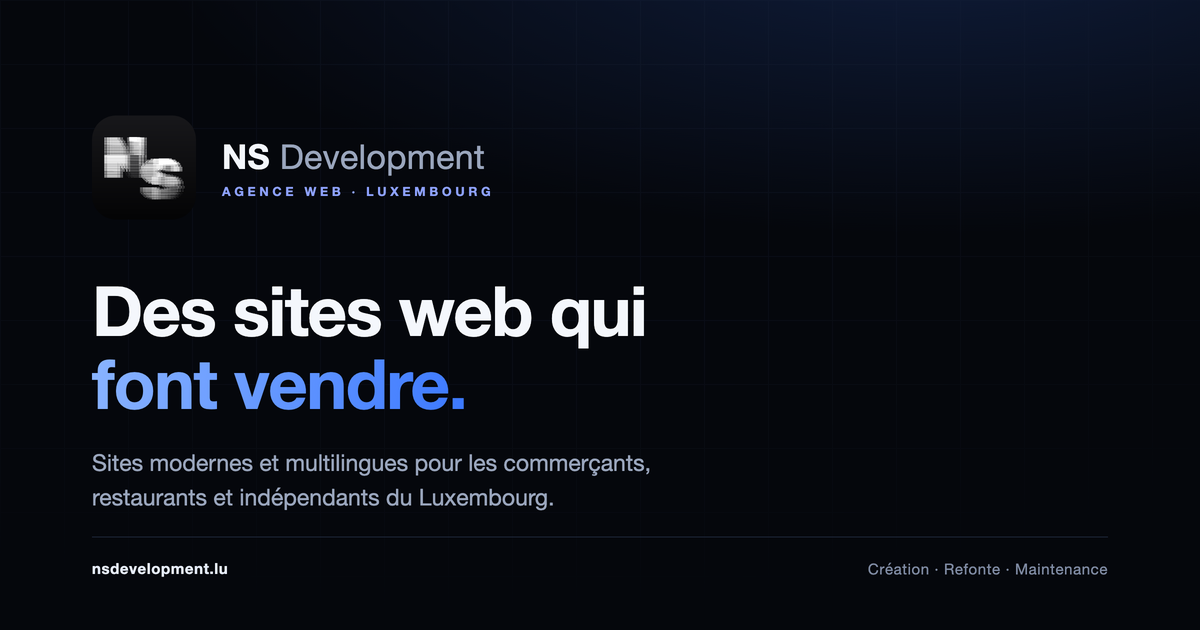
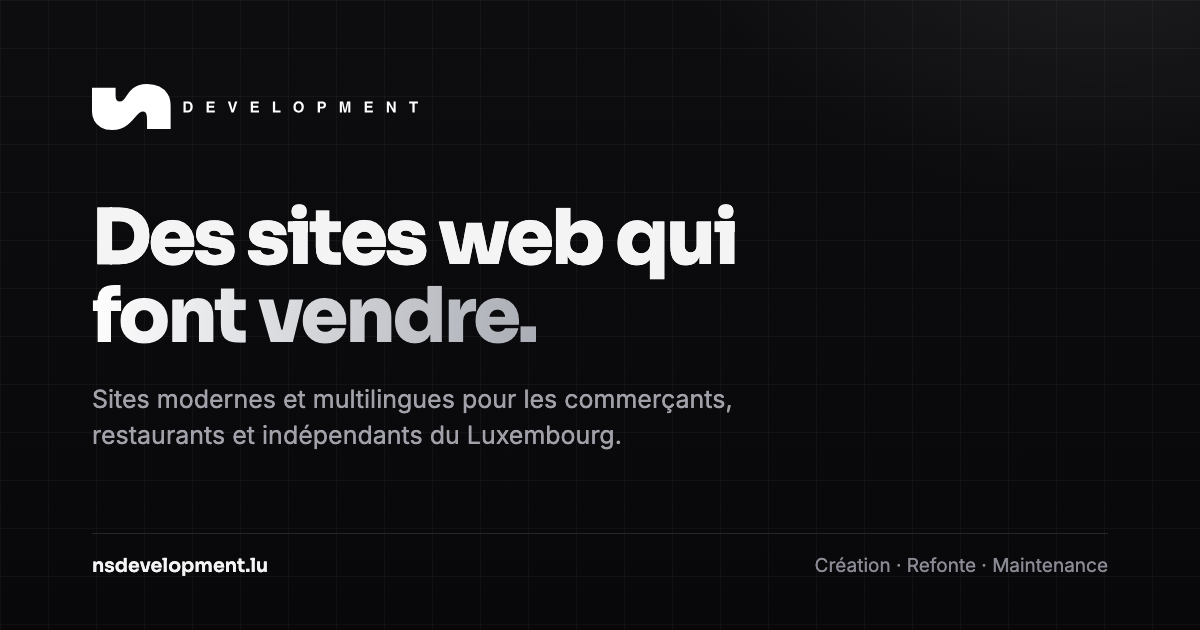
Vitrine et démos — mise à jour du 10/11/2026 à 05:49

diff --git a/index.html b/index.html
@@ -96,7 +96,8 @@
   nav.ns-solid{background:var(--nav-bg);backdrop-filter:blur(18px);box-shadow:0 1px 0 var(--line),0 8px 30px rgba(0,0,0,.4)}
   .nav-in{width:100%;max-width:1180px;margin:0 auto;padding:0 24px;display:flex;align-items:center;justify-content:space-between}
   .brand{display:flex;align-items:center;gap:12px}
-  .brand img{height:40px;width:auto}
+  .brand .logo-h{height:30px;width:auto;display:block;color:var(--ink)}
+  .fx-preload .pl-mark .logo-v{height:clamp(92px,16vw,150px);width:auto;display:block;color:var(--ink)}
   .brand .bt{font-family:var(--disp);font-weight:700;font-size:16px;letter-spacing:.01em}
   .brand .bt em{font-style:normal;color:var(--soft);font-weight:500}
   .nav-links{display:flex;align-items:center;gap:20px}
@@ -424,7 +425,7 @@
 
   footer{border-top:1px solid var(--line);padding:56px 0 34px;background:var(--bg)}
   .foot-top{display:grid;grid-template-columns:1.6fr 1fr 1fr 1fr;gap:44px;padding-bottom:38px;border-bottom:1px solid var(--line)}
-  .foot-brand img{height:52px;margin-bottom:16px}
+  .foot-brand .foot-logo{display:block;color:var(--ink);margin-bottom:18px}.foot-brand .logo-v{height:74px;width:auto;display:block}
   .foot-brand p{font-size:13.5px;color:var(--muted);line-height:1.7;max-width:36ch}
   .foot-col h4{font-family:var(--mono);font-size:11px;letter-spacing:.12em;text-transform:uppercase;color:var(--soft);margin-bottom:16px}
   .foot-col a{display:block;font-size:13.5px;color:var(--muted);padding:5px 0;transition:color var(--tr)}
@@ -480,7 +481,7 @@
 <!-- Écran d'ouverture -->
 <div class="fx-preload" id="fxPreload">
   <div class="pl-in">
-    <div class="pl-mark"><span>NS Development</span></div>
+    <div class="pl-mark"><span role="img" aria-label="NS Development"><svg class="logo-v" xmlns="http://www.w3.org/2000/svg" viewBox="0 0 363.63 239.47" fill="currentColor" aria-hidden="true" focusable="false"><path d="M233.89 125.75Q225.27 125.75 217.36 131.86Q209.46 137.96 201.02 147.48Q192.57 157.01 182.69 167.96Q172.81 178.92 160.06 188.44Q147.3 197.96 130.42 204.07Q113.53 210.18 91.62 210.18Q61.44 210.18 41.14 198.32Q20.84 186.47 10.42 167.6Q-0 148.74 -0 127.9V17.6H107.78V46.35Q107.78 53.53 108.5 61.44Q109.22 69.34 113.17 74.73Q117.13 80.12 127.18 80.12Q135.81 80.12 142.1 74.37Q148.38 68.62 154.31 59.46Q160.24 50.3 167.78 40.06Q175.33 29.82 186.11 20.66Q196.89 11.5 213.05 5.75Q229.22 -0 252.93 -0Q283.83 -0 307.9 11.86Q331.97 23.71 345.63 45.63Q359.28 67.54 359.28 97.72V205.15H251.5V163.83Q251.5 144.79 247.72 135.27Q243.95 125.75 233.89 125.75Z"/><path d="M9.93 236.17H13.3Q15.08 236.17 16.07 234.69Q17.06 233.2 17.06 230.61Q17.06 227.94 16.15 226.64Q15.24 225.33 13.37 225.33H9.93ZM6.54 222.48H13.85Q17.21 222.48 18.89 224.66Q20.58 226.84 20.58 230.36Q20.58 234.26 18.79 236.65Q16.99 239.03 13.72 239.03H6.54ZM53.9 225.41H45.12V228.89H53.19V231.82H45.12V236.11H54.29V239.03H41.73V222.48H53.9ZM84.97 222.48H88.56L82.93 239.03H79.64L74.06 222.48H77.77L81.32 235.03H81.36ZM121.14 225.41H112.36V228.89H120.43V231.82H112.36V236.11H121.54V239.03H108.97V222.48H121.14ZM146.14 236.04H154.37V239.03H142.68V222.48H146.14ZM177.4 230.76Q177.4 233.64 178.68 235.09Q179.96 236.55 181.93 236.55Q183.9 236.55 185.15 235.05Q186.39 233.55 186.39 230.76Q186.39 227.97 185.16 226.47Q183.93 224.97 181.89 224.97Q179.85 224.97 178.62 226.46Q177.4 227.96 177.4 230.76ZM173.94 230.76Q173.94 226.5 176.16 224.27Q178.38 222.05 181.87 222.05Q185.36 222.05 187.6 224.25Q189.85 226.45 189.85 230.76Q189.85 234.97 187.64 237.22Q185.43 239.47 181.9 239.47Q178.53 239.47 176.24 237.34Q173.94 235.21 173.94 230.76ZM217.6 230.21Q218.92 230.21 219.55 229.59Q220.18 228.98 220.18 227.7Q220.18 226.4 219.47 225.87Q218.75 225.33 217.34 225.33H214.4V230.21ZM214.4 239.03H210.94V222.48H218.49Q220.86 222.48 222.25 223.9Q223.64 225.32 223.64 227.79Q223.64 229.91 222.28 231.49Q220.91 233.07 218.36 233.07H214.4ZM260.67 239.03H257.44V227.85L257.48 225.2H257.39L254.3 239.03H250.91L247.89 225.2H247.81L247.85 227.85V239.03H244.62V222.48H249.67L252.65 235.53H252.72L255.66 222.48H260.67ZM294.66 225.41H285.88V228.89H293.95V231.82H285.88V236.11H295.06V239.03H282.49V222.48H294.66ZM326.47 222.48H329.69V239.03H326.23L319.48 227.22H319.43V239.03H316.2V222.48H319.85L326.43 234.01H326.47ZM358.62 239.03H355.16V225.41H350.16V222.48H363.63V225.41H358.62Z"/></svg></span></div>
     <div class="pl-bar"><i></i></div>
     <div class="pl-num">000</div>
   </div>
@@ -494,7 +495,7 @@
 
 <nav data-nav-solid>
   <div class="nav-in">
-    <a href="#top" class="brand"><img src="assets/logo-ns-tuile-header.png" alt="NS Development"><span class="bt">NS <em>Development</em></span></a>
+    <a href="#top" class="brand" aria-label="NS Development, accueil"><svg class="logo-h" xmlns="http://www.w3.org/2000/svg" viewBox="0 0 1489.38 210.18" fill="currentColor" aria-hidden="true" focusable="false"><path d="M233.89 125.75Q225.27 125.75 217.36 131.86Q209.46 137.96 201.02 147.48Q192.57 157.01 182.69 167.96Q172.81 178.92 160.06 188.44Q147.3 197.96 130.42 204.07Q113.53 210.18 91.62 210.18Q61.44 210.18 41.14 198.32Q20.84 186.47 10.42 167.6Q-0 148.74 -0 127.9V17.6H107.78V46.35Q107.78 53.53 108.5 61.44Q109.22 69.34 113.17 74.73Q117.13 80.12 127.18 80.12Q135.81 80.12 142.1 74.37Q148.38 68.62 154.31 59.46Q160.24 50.3 167.78 40.06Q175.33 29.82 186.11 20.66Q196.89 11.5 213.05 5.75Q229.22 -0 252.93 -0Q283.83 -0 307.9 11.86Q331.97 23.71 345.63 45.63Q359.28 67.54 359.28 97.72V205.15H251.5V163.83Q251.5 144.79 247.72 135.27Q243.95 125.75 233.89 125.75Z"/><path transform="translate(418.13 78.95) scale(3.0)" d="M3.39 14.13H6.75Q8.53 14.13 9.52 12.64Q10.51 11.16 10.51 8.57Q10.51 5.9 9.6 4.59Q8.69 3.29 6.82 3.29H3.39ZM-0 0.44H7.31Q10.66 0.44 12.35 2.62Q14.04 4.8 14.04 8.32Q14.04 12.21 12.24 14.6Q10.45 16.99 7.17 16.99H-0ZM47.36 3.37H38.57V6.84H46.65V9.77H38.57V14.06H47.75V16.99H35.19V0.44H47.36ZM78.42 0.44H82.01L76.38 16.99H73.1L67.51 0.44H71.23L74.77 12.98H74.82ZM114.6 3.37H105.82V6.84H113.89V9.77H105.82V14.06H114.99V16.99H102.43V0.44H114.6ZM139.6 13.99H147.82V16.99H136.14V0.44H139.6ZM170.85 8.71Q170.85 11.6 172.14 13.05Q173.42 14.5 175.39 14.5Q177.36 14.5 178.6 13Q179.85 11.51 179.85 8.71Q179.85 5.92 178.61 4.42Q177.38 2.93 175.34 2.93Q173.31 2.93 172.08 4.42Q170.85 5.91 170.85 8.71ZM167.4 8.71Q167.4 4.46 169.61 2.23Q171.83 0 175.32 0Q178.81 0 181.06 2.2Q183.3 4.4 183.3 8.71Q183.3 12.92 181.1 15.18Q178.89 17.43 175.36 17.43Q171.99 17.43 169.69 15.29Q167.4 13.16 167.4 8.71ZM211.06 8.16Q212.38 8.16 213.01 7.55Q213.64 6.93 213.64 5.65Q213.64 4.36 212.92 3.82Q212.21 3.29 210.8 3.29H207.85V8.16ZM207.85 16.99H204.39V0.44H211.95Q214.31 0.44 215.7 1.86Q217.09 3.28 217.09 5.74Q217.09 7.87 215.73 9.45Q214.37 11.02 211.81 11.02H207.85ZM254.13 16.99H250.89V5.81L250.94 3.15H250.85L247.75 16.99H244.37L241.35 3.15H241.27L241.3 5.81V16.99H238.07V0.44H243.13L246.11 13.49H246.18L249.12 0.44H254.13ZM288.12 3.37H279.34V6.84H287.41V9.77H279.34V14.06H288.51V16.99H275.95V0.44H288.12ZM319.93 0.44H323.15V16.99H319.69L312.94 5.18H312.89V16.99H309.66V0.44H313.31L319.88 11.97H319.93ZM352.07 16.99H348.62V3.37H343.62V0.44H357.08V3.37H352.07Z"/></svg></a>
     <div class="nav-links" id="navlinks">
       <a href="#services">Services</a>
       <a href="#demos">Exemples</a>
@@ -1096,7 +1097,7 @@
   <div class="wrap">
     <div class="foot-top" data-stagger="100">
       <div class="foot-brand">
-        <img src="assets/logo-ns-tuile-header.png" alt="NS Development">
+        <span class="foot-logo" role="img" aria-label="NS Development"><svg class="logo-v" xmlns="http://www.w3.org/2000/svg" viewBox="0 0 363.63 239.47" fill="currentColor" aria-hidden="true" focusable="false"><path d="M233.89 125.75Q225.27 125.75 217.36 131.86Q209.46 137.96 201.02 147.48Q192.57 157.01 182.69 167.96Q172.81 178.92 160.06 188.44Q147.3 197.96 130.42 204.07Q113.53 210.18 91.62 210.18Q61.44 210.18 41.14 198.32Q20.84 186.47 10.42 167.6Q-0 148.74 -0 127.9V17.6H107.78V46.35Q107.78 53.53 108.5 61.44Q109.22 69.34 113.17 74.73Q117.13 80.12 127.18 80.12Q135.81 80.12 142.1 74.37Q148.38 68.62 154.31 59.46Q160.24 50.3 167.78 40.06Q175.33 29.82 186.11 20.66Q196.89 11.5 213.05 5.75Q229.22 -0 252.93 -0Q283.83 -0 307.9 11.86Q331.97 23.71 345.63 45.63Q359.28 67.54 359.28 97.72V205.15H251.5V163.83Q251.5 144.79 247.72 135.27Q243.95 125.75 233.89 125.75Z"/><path d="M9.93 236.17H13.3Q15.08 236.17 16.07 234.69Q17.06 233.2 17.06 230.61Q17.06 227.94 16.15 226.64Q15.24 225.33 13.37 225.33H9.93ZM6.54 222.48H13.85Q17.21 222.48 18.89 224.66Q20.58 226.84 20.58 230.36Q20.58 234.26 18.79 236.65Q16.99 239.03 13.72 239.03H6.54ZM53.9 225.41H45.12V228.89H53.19V231.82H45.12V236.11H54.29V239.03H41.73V222.48H53.9ZM84.97 222.48H88.56L82.93 239.03H79.64L74.06 222.48H77.77L81.32 235.03H81.36ZM121.14 225.41H112.36V228.89H120.43V231.82H112.36V236.11H121.54V239.03H108.97V222.48H121.14ZM146.14 236.04H154.37V239.03H142.68V222.48H146.14ZM177.4 230.76Q177.4 233.64 178.68 235.09Q179.96 236.55 181.93 236.55Q183.9 236.55 185.15 235.05Q186.39 233.55 186.39 230.76Q186.39 227.97 185.16 226.47Q183.93 224.97 181.89 224.97Q179.85 224.97 178.62 226.46Q177.4 227.96 177.4 230.76ZM173.94 230.76Q173.94 226.5 176.16 224.27Q178.38 222.05 181.87 222.05Q185.36 222.05 187.6 224.25Q189.85 226.45 189.85 230.76Q189.85 234.97 187.64 237.22Q185.43 239.47 181.9 239.47Q178.53 239.47 176.24 237.34Q173.94 235.21 173.94 230.76ZM217.6 230.21Q218.92 230.21 219.55 229.59Q220.18 228.98 220.18 227.7Q220.18 226.4 219.47 225.87Q218.75 225.33 217.34 225.33H214.4V230.21ZM214.4 239.03H210.94V222.48H218.49Q220.86 222.48 222.25 223.9Q223.64 225.32 223.64 227.79Q223.64 229.91 222.28 231.49Q220.91 233.07 218.36 233.07H214.4ZM260.67 239.03H257.44V227.85L257.48 225.2H257.39L254.3 239.03H250.91L247.89 225.2H247.81L247.85 227.85V239.03H244.62V222.48H249.67L252.65 235.53H252.72L255.66 222.48H260.67ZM294.66 225.41H285.88V228.89H293.95V231.82H285.88V236.11H295.06V239.03H282.49V222.48H294.66ZM326.47 222.48H329.69V239.03H326.23L319.48 227.22H319.43V239.03H316.2V222.48H319.85L326.43 234.01H326.47ZM358.62 239.03H355.16V225.41H350.16V222.48H363.63V225.41H358.62Z"/></svg></span>
         <p>Création de sites web modernes pour les commerçants, restaurants et indépendants du Luxembourg.</p>
       </div>
       <div class="foot-col">

diff --git a/crm/index.html b/crm/index.html
@@ -240,6 +240,9 @@
   .bandeau-installer { display: block; background: #35d29a; color: #0f0f10; font-weight: 700; font-size: 14px; text-align: center;
     padding: 10px 16px; text-decoration: none; }
   .logo-connexion { width: 64px; height: 64px; border-radius: 16px; margin-bottom: 18px; }
+  /* Logo officiel vectoriel sans fond (pack du 10/11/2026), en vert CRM */
+  #ecran-connexion > svg.logo-nsd-connexion { display: block; width: 92px; height: auto; margin: 0 auto 22px; filter: drop-shadow(0 14px 30px rgba(53,210,154,.35)); }
+  .logo svg.logo-nsd { display: block; height: 20px; width: auto; }
   .connexion h1 { margin: 0 0 6px; }
   .connexion p { color: var(--doux); margin: 0 0 22px; }
   .code { letter-spacing: .4em; text-align: center; font-size: 24px !important; }
@@ -1072,7 +1075,7 @@
   Pour avoir le logo NS sur l’écran d’accueil, ouvre l’appli ici puis ajoute-la depuis Safari →</a>
 
 <div id="ecran-connexion" class="connexion cache">
-  <img class="logo-connexion" src="icones/nsd-vert-tuile-96.png" alt="NS Development" width="64" height="64">
+  <svg class="logo-nsd-connexion" viewBox="0 0 359.28 210.18" role="img" aria-label="NS Development"><defs><linearGradient id="logo-nsd-connexion-g" x1="0" y1="0" x2="1" y2="1"><stop offset="0" stop-color="var(--accent-l, #7ff0c4)"/><stop offset="1" stop-color="var(--accent, #35d29a)"/></linearGradient></defs><path fill="url(#logo-nsd-connexion-g)" d="M233.89 125.75Q225.27 125.75 217.36 131.86Q209.46 137.96 201.02 147.48Q192.57 157.01 182.69 167.96Q172.81 178.92 160.06 188.44Q147.3 197.96 130.42 204.07Q113.53 210.18 91.62 210.18Q61.44 210.18 41.14 198.32Q20.84 186.47 10.42 167.6Q-0 148.74 -0 127.9V17.6H107.78V46.35Q107.78 53.53 108.5 61.44Q109.22 69.34 113.17 74.73Q117.13 80.12 127.18 80.12Q135.81 80.12 142.1 74.37Q148.38 68.62 154.31 59.46Q160.24 50.3 167.78 40.06Q175.33 29.82 186.11 20.66Q196.89 11.5 213.05 5.75Q229.22 -0 252.93 -0Q283.83 -0 307.9 11.86Q331.97 23.71 345.63 45.63Q359.28 67.54 359.28 97.72V205.15H251.5V163.83Q251.5 144.79 247.72 135.27Q243.95 125.75 233.89 125.75Z"/></svg>
   <h1>CRM NSD</h1>
   <p>La prospection de NS Development, reliée au Google Sheets.</p>
   <label class="champ">Code d’accès
@@ -1084,7 +1087,7 @@
 <div id="app" class="cache">
   <header class="barre"><div class="barre-int">
     <div class="barre-haut">
-      <div class="logo"><img src="icones/nsd-vert-tuile-96.png" alt="NS Development"> CRM</div>
+      <div class="logo"><svg class="logo-nsd" viewBox="0 0 359.28 210.18" role="img" aria-label="NS Development"><defs><linearGradient id="logo-nsd-g" x1="0" y1="0" x2="1" y2="1"><stop offset="0" stop-color="var(--accent-l, #7ff0c4)"/><stop offset="1" stop-color="var(--accent, #35d29a)"/></linearGradient></defs><path fill="url(#logo-nsd-g)" d="M233.89 125.75Q225.27 125.75 217.36 131.86Q209.46 137.96 201.02 147.48Q192.57 157.01 182.69 167.96Q172.81 178.92 160.06 188.44Q147.3 197.96 130.42 204.07Q113.53 210.18 91.62 210.18Q61.44 210.18 41.14 198.32Q20.84 186.47 10.42 167.6Q-0 148.74 -0 127.9V17.6H107.78V46.35Q107.78 53.53 108.5 61.44Q109.22 69.34 113.17 74.73Q117.13 80.12 127.18 80.12Q135.81 80.12 142.1 74.37Q148.38 68.62 154.31 59.46Q160.24 50.3 167.78 40.06Q175.33 29.82 186.11 20.66Q196.89 11.5 213.05 5.75Q229.22 -0 252.93 -0Q283.83 -0 307.9 11.86Q331.97 23.71 345.63 45.63Q359.28 67.54 359.28 97.72V205.15H251.5V163.83Q251.5 144.79 247.72 135.27Q243.95 125.75 233.89 125.75Z"/></svg> CRM</div>
       <div class="barre-droite">
         <button class="theme" data-action="theme" aria-label="Basculer entre mode clair et mode sombre" title="Mode clair / sombre">
           <svg class="lune" viewBox="0 0 24 24" fill="none" stroke="currentColor" stroke-width="2" stroke-linecap="round" stroke-linejoin="round"><path d="M21 12.79A9 9 0 1 1 11.21 3 7 7 0 0 0 21 12.79z"/></svg>

diff --git a/cgv.html b/cgv.html
@@ -20,7 +20,7 @@
   a{color:var(--acc2);text-decoration:none}a:hover{color:var(--acc)}
   h1,h2{font-family:var(--disp);letter-spacing:-.02em}
   .top{position:sticky;top:0;z-index:10;background:rgba(8,8,10,.86);backdrop-filter:blur(16px);border-bottom:1px solid var(--line);display:flex;align-items:center;justify-content:space-between;padding:15px 24px}
-  .top .b{display:flex;align-items:center;gap:11px}.top img{height:34px}
+  .top .b{display:flex;align-items:center;gap:11px}.top .logo-h{height:28px;width:auto;display:block;color:var(--ink)}
   .top .bt{font-family:var(--disp);font-weight:700;font-size:15px}.top .bt em{font-style:normal;color:var(--soft);font-weight:500}
   .back{font-size:13px;font-weight:600;color:var(--soft);border:1px solid var(--line2);border-radius:9px;padding:9px 16px}
   .back:hover{border-color:var(--acc);color:var(--acc2)}
@@ -39,7 +39,7 @@
 <body data-page-transition>
   <div class="ns-progress"></div>
   <div class="top">
-    <a href="index.html" class="b"><img src="assets/logo-ns-tuile-header.png" alt="NS Development"><span class="bt">NS <em>Development</em></span></a>
+    <a href="index.html" class="b" aria-label="NS Development, accueil"><svg class="logo-h" xmlns="http://www.w3.org/2000/svg" viewBox="0 0 1489.38 210.18" fill="currentColor" aria-hidden="true" focusable="false"><path d="M233.89 125.75Q225.27 125.75 217.36 131.86Q209.46 137.96 201.02 147.48Q192.57 157.01 182.69 167.96Q172.81 178.92 160.06 188.44Q147.3 197.96 130.42 204.07Q113.53 210.18 91.62 210.18Q61.44 210.18 41.14 198.32Q20.84 186.47 10.42 167.6Q-0 148.74 -0 127.9V17.6H107.78V46.35Q107.78 53.53 108.5 61.44Q109.22 69.34 113.17 74.73Q117.13 80.12 127.18 80.12Q135.81 80.12 142.1 74.37Q148.38 68.62 154.31 59.46Q160.24 50.3 167.78 40.06Q175.33 29.82 186.11 20.66Q196.89 11.5 213.05 5.75Q229.22 -0 252.93 -0Q283.83 -0 307.9 11.86Q331.97 23.71 345.63 45.63Q359.28 67.54 359.28 97.72V205.15H251.5V163.83Q251.5 144.79 247.72 135.27Q243.95 125.75 233.89 125.75Z"/><path transform="translate(418.13 78.95) scale(3.0)" d="M3.39 14.13H6.75Q8.53 14.13 9.52 12.64Q10.51 11.16 10.51 8.57Q10.51 5.9 9.6 4.59Q8.69 3.29 6.82 3.29H3.39ZM-0 0.44H7.31Q10.66 0.44 12.35 2.62Q14.04 4.8 14.04 8.32Q14.04 12.21 12.24 14.6Q10.45 16.99 7.17 16.99H-0ZM47.36 3.37H38.57V6.84H46.65V9.77H38.57V14.06H47.75V16.99H35.19V0.44H47.36ZM78.42 0.44H82.01L76.38 16.99H73.1L67.51 0.44H71.23L74.77 12.98H74.82ZM114.6 3.37H105.82V6.84H113.89V9.77H105.82V14.06H114.99V16.99H102.43V0.44H114.6ZM139.6 13.99H147.82V16.99H136.14V0.44H139.6ZM170.85 8.71Q170.85 11.6 172.14 13.05Q173.42 14.5 175.39 14.5Q177.36 14.5 178.6 13Q179.85 11.51 179.85 8.71Q179.85 5.92 178.61 4.42Q177.38 2.93 175.34 2.93Q173.31 2.93 172.08 4.42Q170.85 5.91 170.85 8.71ZM167.4 8.71Q167.4 4.46 169.61 2.23Q171.83 0 175.32 0Q178.81 0 181.06 2.2Q183.3 4.4 183.3 8.71Q183.3 12.92 181.1 15.18Q178.89 17.43 175.36 17.43Q171.99 17.43 169.69 15.29Q167.4 13.16 167.4 8.71ZM211.06 8.16Q212.38 8.16 213.01 7.55Q213.64 6.93 213.64 5.65Q213.64 4.36 212.92 3.82Q212.21 3.29 210.8 3.29H207.85V8.16ZM207.85 16.99H204.39V0.44H211.95Q214.31 0.44 215.7 1.86Q217.09 3.28 217.09 5.74Q217.09 7.87 215.73 9.45Q214.37 11.02 211.81 11.02H207.85ZM254.13 16.99H250.89V5.81L250.94 3.15H250.85L247.75 16.99H244.37L241.35 3.15H241.27L241.3 5.81V16.99H238.07V0.44H243.13L246.11 13.49H246.18L249.12 0.44H254.13ZM288.12 3.37H279.34V6.84H287.41V9.77H279.34V14.06H288.51V16.99H275.95V0.44H288.12ZM319.93 0.44H323.15V16.99H319.69L312.94 5.18H312.89V16.99H309.66V0.44H313.31L319.88 11.97H319.93ZM352.07 16.99H348.62V3.37H343.62V0.44H357.08V3.37H352.07Z"/></svg></a>
     <a href="index.html" class="back">← Retour au site</a>
   </div>
   <div class="wrap">

diff --git a/confidentialite.html b/confidentialite.html
@@ -20,7 +20,7 @@
   a{color:var(--acc2);text-decoration:none}a:hover{color:var(--acc)}
   h1,h2{font-family:var(--disp);letter-spacing:-.02em}
   .top{position:sticky;top:0;z-index:10;background:rgba(8,8,10,.86);backdrop-filter:blur(16px);border-bottom:1px solid var(--line);display:flex;align-items:center;justify-content:space-between;padding:15px 24px}
-  .top .b{display:flex;align-items:center;gap:11px}.top img{height:34px}
+  .top .b{display:flex;align-items:center;gap:11px}.top .logo-h{height:28px;width:auto;display:block;color:var(--ink)}
   .top .bt{font-family:var(--disp);font-weight:700;font-size:15px}.top .bt em{font-style:normal;color:var(--soft);font-weight:500}
   .back{font-size:13px;font-weight:600;color:var(--soft);border:1px solid var(--line2);border-radius:9px;padding:9px 16px}
   .back:hover{border-color:var(--acc);color:var(--acc2)}
@@ -39,7 +39,7 @@
 <body data-page-transition>
   <div class="ns-progress"></div>
   <div class="top">
-    <a href="index.html" class="b"><img src="assets/logo-ns-tuile-header.png" alt="NS Development"><span class="bt">NS <em>Development</em></span></a>
+    <a href="index.html" class="b" aria-label="NS Development, accueil"><svg class="logo-h" xmlns="http://www.w3.org/2000/svg" viewBox="0 0 1489.38 210.18" fill="currentColor" aria-hidden="true" focusable="false"><path d="M233.89 125.75Q225.27 125.75 217.36 131.86Q209.46 137.96 201.02 147.48Q192.57 157.01 182.69 167.96Q172.81 178.92 160.06 188.44Q147.3 197.96 130.42 204.07Q113.53 210.18 91.62 210.18Q61.44 210.18 41.14 198.32Q20.84 186.47 10.42 167.6Q-0 148.74 -0 127.9V17.6H107.78V46.35Q107.78 53.53 108.5 61.44Q109.22 69.34 113.17 74.73Q117.13 80.12 127.18 80.12Q135.81 80.12 142.1 74.37Q148.38 68.62 154.31 59.46Q160.24 50.3 167.78 40.06Q175.33 29.82 186.11 20.66Q196.89 11.5 213.05 5.75Q229.22 -0 252.93 -0Q283.83 -0 307.9 11.86Q331.97 23.71 345.63 45.63Q359.28 67.54 359.28 97.72V205.15H251.5V163.83Q251.5 144.79 247.72 135.27Q243.95 125.75 233.89 125.75Z"/><path transform="translate(418.13 78.95) scale(3.0)" d="M3.39 14.13H6.75Q8.53 14.13 9.52 12.64Q10.51 11.16 10.51 8.57Q10.51 5.9 9.6 4.59Q8.69 3.29 6.82 3.29H3.39ZM-0 0.44H7.31Q10.66 0.44 12.35 2.62Q14.04 4.8 14.04 8.32Q14.04 12.21 12.24 14.6Q10.45 16.99 7.17 16.99H-0ZM47.36 3.37H38.57V6.84H46.65V9.77H38.57V14.06H47.75V16.99H35.19V0.44H47.36ZM78.42 0.44H82.01L76.38 16.99H73.1L67.51 0.44H71.23L74.77 12.98H74.82ZM114.6 3.37H105.82V6.84H113.89V9.77H105.82V14.06H114.99V16.99H102.43V0.44H114.6ZM139.6 13.99H147.82V16.99H136.14V0.44H139.6ZM170.85 8.71Q170.85 11.6 172.14 13.05Q173.42 14.5 175.39 14.5Q177.36 14.5 178.6 13Q179.85 11.51 179.85 8.71Q179.85 5.92 178.61 4.42Q177.38 2.93 175.34 2.93Q173.31 2.93 172.08 4.42Q170.85 5.91 170.85 8.71ZM167.4 8.71Q167.4 4.46 169.61 2.23Q171.83 0 175.32 0Q178.81 0 181.06 2.2Q183.3 4.4 183.3 8.71Q183.3 12.92 181.1 15.18Q178.89 17.43 175.36 17.43Q171.99 17.43 169.69 15.29Q167.4 13.16 167.4 8.71ZM211.06 8.16Q212.38 8.16 213.01 7.55Q213.64 6.93 213.64 5.65Q213.64 4.36 212.92 3.82Q212.21 3.29 210.8 3.29H207.85V8.16ZM207.85 16.99H204.39V0.44H211.95Q214.31 0.44 215.7 1.86Q217.09 3.28 217.09 5.74Q217.09 7.87 215.73 9.45Q214.37 11.02 211.81 11.02H207.85ZM254.13 16.99H250.89V5.81L250.94 3.15H250.85L247.75 16.99H244.37L241.35 3.15H241.27L241.3 5.81V16.99H238.07V0.44H243.13L246.11 13.49H246.18L249.12 0.44H254.13ZM288.12 3.37H279.34V6.84H287.41V9.77H279.34V14.06H288.51V16.99H275.95V0.44H288.12ZM319.93 0.44H323.15V16.99H319.69L312.94 5.18H312.89V16.99H309.66V0.44H313.31L319.88 11.97H319.93ZM352.07 16.99H348.62V3.37H343.62V0.44H357.08V3.37H352.07Z"/></svg></a>
     <a href="index.html" class="back">← Retour au site</a>
   </div>
   <div class="wrap">

diff --git a/mentions-legales.html b/mentions-legales.html
@@ -20,7 +20,7 @@
   a{color:var(--acc2);text-decoration:none}a:hover{color:var(--acc)}
   h1,h2{font-family:var(--disp);letter-spacing:-.02em}
   .top{position:sticky;top:0;z-index:10;background:rgba(8,8,10,.86);backdrop-filter:blur(16px);border-bottom:1px solid var(--line);display:flex;align-items:center;justify-content:space-between;padding:15px 24px}
-  .top .b{display:flex;align-items:center;gap:11px}.top img{height:34px}
+  .top .b{display:flex;align-items:center;gap:11px}.top .logo-h{height:28px;width:auto;display:block;color:var(--ink)}
   .top .bt{font-family:var(--disp);font-weight:700;font-size:15px}.top .bt em{font-style:normal;color:var(--soft);font-weight:500}
   .back{font-size:13px;font-weight:600;color:var(--soft);border:1px solid var(--line2);border-radius:9px;padding:9px 16px}
   .back:hover{border-color:var(--acc);color:var(--acc2)}
@@ -38,7 +38,7 @@
 <body data-page-transition>
   <div class="ns-progress"></div>
   <div class="top">
-    <a href="index.html" class="b"><img src="assets/logo-ns-tuile-header.png" alt="NS Development"><span class="bt">NS <em>Development</em></span></a>
+    <a href="index.html" class="b" aria-label="NS Development, accueil"><svg class="logo-h" xmlns="http://www.w3.org/2000/svg" viewBox="0 0 1489.38 210.18" fill="currentColor" aria-hidden="true" focusable="false"><path d="M233.89 125.75Q225.27 125.75 217.36 131.86Q209.46 137.96 201.02 147.48Q192.57 157.01 182.69 167.96Q172.81 178.92 160.06 188.44Q147.3 197.96 130.42 204.07Q113.53 210.18 91.62 210.18Q61.44 210.18 41.14 198.32Q20.84 186.47 10.42 167.6Q-0 148.74 -0 127.9V17.6H107.78V46.35Q107.78 53.53 108.5 61.44Q109.22 69.34 113.17 74.73Q117.13 80.12 127.18 80.12Q135.81 80.12 142.1 74.37Q148.38 68.62 154.31 59.46Q160.24 50.3 167.78 40.06Q175.33 29.82 186.11 20.66Q196.89 11.5 213.05 5.75Q229.22 -0 252.93 -0Q283.83 -0 307.9 11.86Q331.97 23.71 345.63 45.63Q359.28 67.54 359.28 97.72V205.15H251.5V163.83Q251.5 144.79 247.72 135.27Q243.95 125.75 233.89 125.75Z"/><path transform="translate(418.13 78.95) scale(3.0)" d="M3.39 14.13H6.75Q8.53 14.13 9.52 12.64Q10.51 11.16 10.51 8.57Q10.51 5.9 9.6 4.59Q8.69 3.29 6.82 3.29H3.39ZM-0 0.44H7.31Q10.66 0.44 12.35 2.62Q14.04 4.8 14.04 8.32Q14.04 12.21 12.24 14.6Q10.45 16.99 7.17 16.99H-0ZM47.36 3.37H38.57V6.84H46.65V9.77H38.57V14.06H47.75V16.99H35.19V0.44H47.36ZM78.42 0.44H82.01L76.38 16.99H73.1L67.51 0.44H71.23L74.77 12.98H74.82ZM114.6 3.37H105.82V6.84H113.89V9.77H105.82V14.06H114.99V16.99H102.43V0.44H114.6ZM139.6 13.99H147.82V16.99H136.14V0.44H139.6ZM170.85 8.71Q170.85 11.6 172.14 13.05Q173.42 14.5 175.39 14.5Q177.36 14.5 178.6 13Q179.85 11.51 179.85 8.71Q179.85 5.92 178.61 4.42Q177.38 2.93 175.34 2.93Q173.31 2.93 172.08 4.42Q170.85 5.91 170.85 8.71ZM167.4 8.71Q167.4 4.46 169.61 2.23Q171.83 0 175.32 0Q178.81 0 181.06 2.2Q183.3 4.4 183.3 8.71Q183.3 12.92 181.1 15.18Q178.89 17.43 175.36 17.43Q171.99 17.43 169.69 15.29Q167.4 13.16 167.4 8.71ZM211.06 8.16Q212.38 8.16 213.01 7.55Q213.64 6.93 213.64 5.65Q213.64 4.36 212.92 3.82Q212.21 3.29 210.8 3.29H207.85V8.16ZM207.85 16.99H204.39V0.44H211.95Q214.31 0.44 215.7 1.86Q217.09 3.28 217.09 5.74Q217.09 7.87 215.73 9.45Q214.37 11.02 211.81 11.02H207.85ZM254.13 16.99H250.89V5.81L250.94 3.15H250.85L247.75 16.99H244.37L241.35 3.15H241.27L241.3 5.81V16.99H238.07V0.44H243.13L246.11 13.49H246.18L249.12 0.44H254.13ZM288.12 3.37H279.34V6.84H287.41V9.77H279.34V14.06H288.51V16.99H275.95V0.44H288.12ZM319.93 0.44H323.15V16.99H319.69L312.94 5.18H312.89V16.99H309.66V0.44H313.31L319.88 11.97H319.93ZM352.07 16.99H348.62V3.37H343.62V0.44H357.08V3.37H352.07Z"/></svg></a>
     <a href="index.html" class="back">← Retour au site</a>
   </div>
   <div class="wrap">

diff --git a/espace-client.html b/espace-client.html
@@ -78,9 +78,9 @@
     gap:26px;padding:56px 24px;text-align:center;transition:opacity .38s ease,transform .38s ease}
   #ecConnexion.parti{opacity:0;transform:scale(.97)}
   .marque{display:flex;flex-direction:column;align-items:center;gap:13px}
-  /* Le logo est la tuile de la marque (assets/logo-ns-tuile-header.png), jamais un
-     carré dégradé reconstruit en CSS. Aucun filtre : la tuile est déjà noire. */
-  .mono-ns{width:66px;height:66px;display:block;object-fit:contain}
+  /* Logo officiel vectoriel sans fond (assets/nsd-logo-*.svg, pack 10/11/2026). */
+  .logo-ec{height:84px;width:auto;display:block}
+  .logo-ec-rail{height:24px;width:auto;display:block}
   .marque b{font-family:var(--disp);font-weight:700;font-size:15px}
   .marque b em{font-style:normal;color:var(--soft);font-weight:500}
   .eyebrow{font-family:var(--mono);font-size:11px;letter-spacing:.18em;text-transform:uppercase;color:var(--acc2);
@@ -129,7 +129,6 @@
   .rail{position:sticky;top:0;height:100dvh;display:flex;flex-direction:column;gap:26px;padding:26px 18px;
     border-right:1px solid var(--line);background:rgba(13,13,16,.72);backdrop-filter:blur(14px)}
   .rail-marque{display:flex;align-items:center;gap:11px;padding:0 8px}
-  .rail-marque .mono-ns{width:40px;height:40px}
   .rail-marque b{font-family:var(--disp);font-weight:700;font-size:14px}
   .rail-marque b em{font-style:normal;color:var(--soft);font-weight:500}
   .rail nav{display:flex;flex-direction:column;gap:4px}
@@ -412,8 +411,7 @@
 <!-- ============ CONNEXION ============ -->
 <section id="ecConnexion">
   <div class="marque" data-reveal="scale">
-    <img class="mono-ns" src="assets/logo-ns-tuile-header.png" alt="">
-    <b>NS <em>Development</em></b>
+    <img class="logo-ec" src="assets/nsd-logo-blanc.svg" alt="NS Development">
   </div>
 
   <div data-reveal data-delay="140">
@@ -461,8 +459,7 @@
 <div id="ecApp" hidden>
   <aside class="rail">
     <div class="rail-marque">
-      <img class="mono-ns" src="assets/logo-ns-tuile-header.png" alt="">
-      <b>NS <em>Development</em></b>
+      <img class="logo-ec-rail" src="assets/nsd-logo-horizontal-blanc.svg" alt="NS Development">
     </div>
 
     <nav aria-label="Navigation de l'espace client">

diff --git a/espace-client.js b/espace-client.js
@@ -144,7 +144,7 @@
   var INCLUS = [
     "Hébergement et nom de domaine",
     "Maintenance technique et sécurité",
-    "Sauvegardes quotidiennes",
+    "Sauvegardes régulières",
     "Suivi du référencement local",
     "Modifications illimitées raisonnables"
   ];
@@ -1156,15 +1156,17 @@
       infoCo("Si un compte existe pour cette adresse, un lien pour choisir un nouveau mot de passe vient d'y être envoyé. Pensez à regarder les indésirables.");
     });
 
-    var modeRecuperation = /type=recovery/.test(window.location.hash) && !/error_description=/.test(window.location.hash);
+    /* Même formulaire pour le lien d'invitation (premier accès d'un client) : type=invite. */
+    var modeInvitation = /type=invite/.test(window.location.hash);
+    var modeRecuperation = /type=(recovery|invite)/.test(window.location.hash) && !/error_description=/.test(window.location.hash);
     if (modeRecuperation) {
       var formCo = document.getElementById("ecForm-connexion");
       var formNouveau = document.createElement("form");
       formNouveau.className = "form-co";
       formNouveau.id = "ecForm-nouveau";
       formNouveau.innerHTML =
-        '<p style="margin:0 0 6px;font-size:15px"><strong>Choisissez votre nouveau mot de passe.</strong> 8 caractères minimum.</p>' +
-        '<div class="champ"><label for="ecMdp1">Nouveau mot de passe</label><div class="box">' +
+        '<p style="margin:0 0 6px;font-size:15px"><strong>' + (modeInvitation ? "Bienvenue. Choisissez votre mot de passe." : "Choisissez votre nouveau mot de passe.") + '</strong> 8 caractères minimum.</p>' +
+        '<div class="champ"><label for="ecMdp1">' + (modeInvitation ? "Mot de passe" : "Nouveau mot de passe") + '</label><div class="box">' +
         '<input id="ecMdp1" type="password" autocomplete="new-password" minlength="8" required></div></div>' +
         '<div class="champ"><label for="ecMdp2">Confirmez-le</label><div class="box">' +
         '<input id="ecMdp2" type="password" autocomplete="new-password" minlength="8" required></div></div>' +
